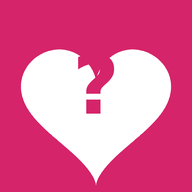
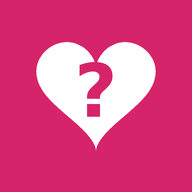
Quem é mais?: novo ícone sem corte e nomes completos na marcação
Claude-Session: https://claude.ai/code/session_0197zj9Bq7snQrQFY8mFzJkX

Changed region(s): [[0.0938, 0.2812, 0.9062, 0.9688], [0.2188, 0.2188, 0.7812, 0.625]]

diff --git a/static-jogos/quem-e-mais/index.html b/static-jogos/quem-e-mais/index.html
@@ -252,9 +252,10 @@ h1,h2,h3,p{margin:0}
 .markcard.done{border-color:var(--cc)}
 .mhead{display:flex;align-items:center;gap:8px;font-weight:700;min-width:0}
 .mhead b{overflow:hidden;text-overflow:ellipsis;white-space:nowrap}
-.mopts{display:grid;grid-template-columns:minmax(0,1fr) minmax(0,1fr) auto;gap:8px}
+.mopts{display:grid;grid-template-columns:minmax(0,1fr) minmax(0,1fr);gap:8px}
+.mopt.x{grid-column:1/-1}
 .mopt{display:flex;align-items:center;justify-content:center;gap:8px;min-height:48px;padding:8px 10px;border-radius:12px;background:var(--bg);border:2px solid var(--line);font-weight:700;min-width:0}
-.mopt span{overflow:hidden;text-overflow:ellipsis;white-space:nowrap}
+.mopt span{min-width:0;overflow-wrap:anywhere;line-height:1.15;text-align:left}
 .mopt .av{width:24px;height:24px;border-radius:50%;background:var(--cc);color:var(--onc);display:grid;place-items:center;font-size:12px;font-weight:800;flex:none;font-style:normal}
 .mopt[aria-pressed="true"]{background:var(--cc);color:var(--onc);border-color:var(--cc)}
 .mopt[aria-pressed="true"] .av{background:var(--onc);color:var(--cc)}

diff --git a/static-jogos/quem-e-mais/sw.js b/static-jogos/quem-e-mais/sw.js
@@ -1,4 +1,4 @@
-const CACHE='quem-e-mais-v4';
+const CACHE='quem-e-mais-v5';
 const FILES=['./','./index.html','./manifest.webmanifest','./icon-192.png','./icon-512.png','./icon-maskable-512.png','./apple-touch-icon.png','./og-image.png'];
 self.addEventListener('install',e=>{e.waitUntil(caches.open(CACHE).then(c=>c.addAll(FILES)).then(()=>self.skipWaiting()));});
 self.addEventListener('activate',e=>{e.waitUntil(caches.keys().then(ks=>Promise.all(ks.filter(k=>k!==CACHE).map(k=>caches.delete(k)))).then(()=>self.clients.claim()));});
